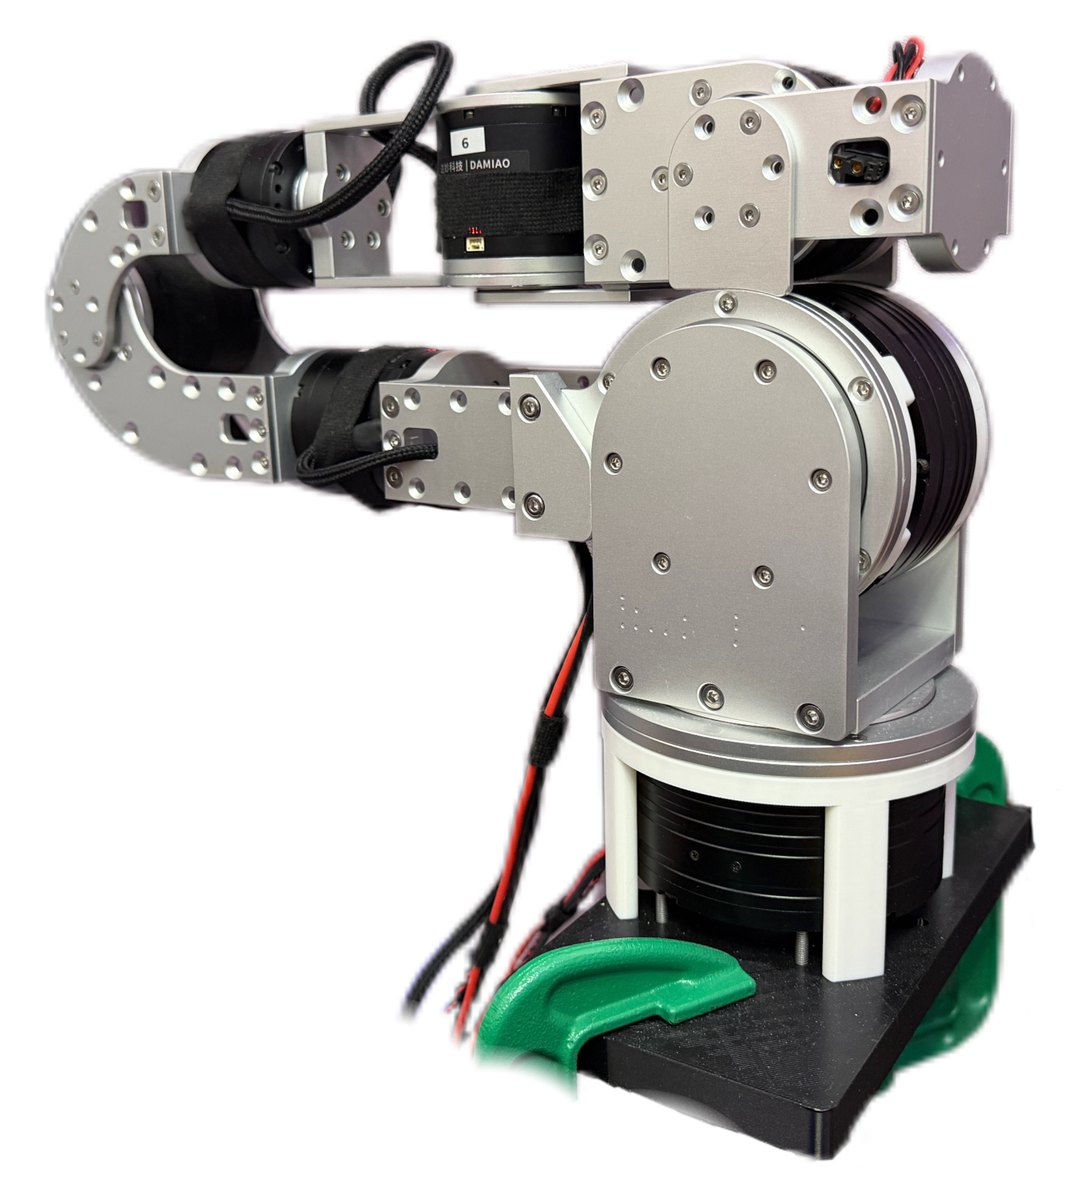
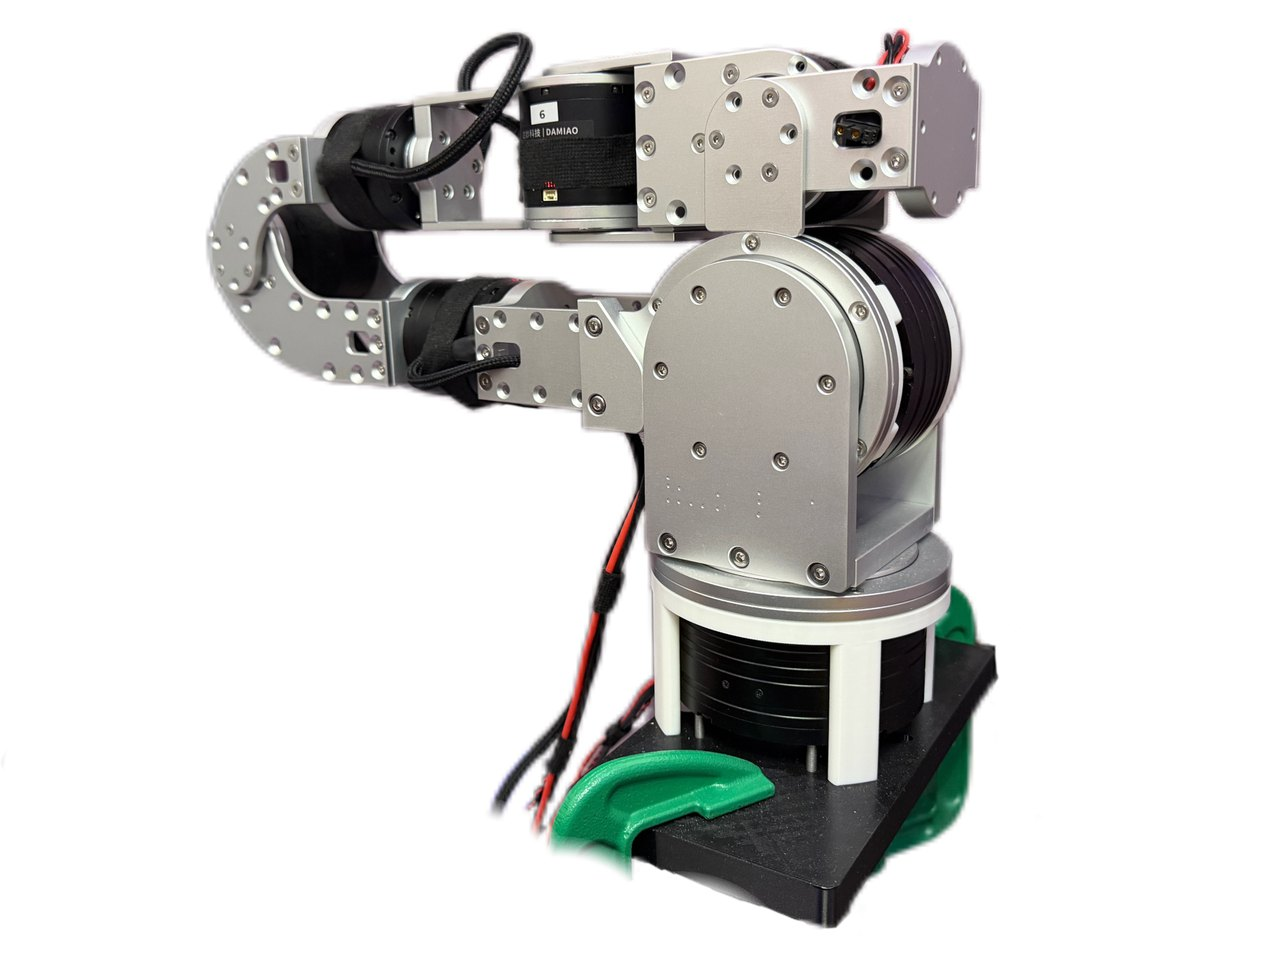
docs(project): keep the photo's 4:3 frame and clarify the architecture diagram
Scale the arm photo from the original 4:3 frame instead of cropping it narrow, and show the photo and the gravity compensation preview at the same height in both READMEs. Redraw the architecture diagram with bidirectional links between PC, controller and joint motors, naming what travels each way.

diff --git a/README.md b/README.md
@@ -7,8 +7,8 @@ English · [简体中文](README.zh-CN.md)
 [**Documentation**](https://yaolindong.github.io/infrabot/) · [Demo videos](https://yaolindong.github.io/infrabot/docs/demos) · [Quick start](#start-here) · [Repositories](#repositories) · [Compatibility](VERSIONS.md) · [Safety](SAFETY.md)
 
 <p align="center">
-  <img src="website/static/img/h7c-photo.jpg" width="360" alt="The InfraBot H7C seven-axis arm">
-  <img src="website/static/img/gravity-compensation.webp" width="420" alt="Guiding the arm by hand in gravity compensation">
+  <img src="website/static/img/h7c-photo.jpg" height="250" alt="The InfraBot H7C seven-axis arm">
+  <img src="website/static/img/gravity-compensation.webp" height="250" alt="Guiding the arm by hand in gravity compensation">
 </p>
 <p align="center"><sub>Gravity compensation on the controller, guided by hand. More clips: <a href="website/static/video/gravity-compensation.mp4">gravity compensation</a> · <a href="website/static/video/joint-impedance.mp4">joint impedance</a> · <a href="website/static/video/cartesian-impedance.mp4">Cartesian impedance</a> · <a href="website/static/video/joint-admittance.mp4">joint admittance</a> · <a href="website/static/video/cartesian-admittance.mp4">Cartesian admittance</a></sub></p>
 
@@ -61,13 +61,16 @@ English · [简体中文](README.zh-CN.md)
 ## How it fits together
 
 ```text
-PC ── C++ / Python SDK, Qt GUI ── Ethernet UDP ──┐
-                                                  ▼
-          STM32H743 controller on the carrier board, with a touch panel
+PC: C++ / Python SDK, Qt GUI
+ ▲
+ │  Ethernet UDP: commands down, telemetry and replies up
+ ▼
+Controller: STM32H743 on the carrier board, with a touch panel
             1 kHz joint loop · kinematics · gravity · impedance · admittance
-                                                  │ CAN FD
-                                                  ▼
-          J1–J2 DM8009P · J3–J4 DM4340P · J5–J7 DM4310 · J8 gripper
+ ▲
+ │  CAN FD: drive commands down, motor feedback up
+ ▼
+Joint motors: J1–J2 DM8009P · J3–J4 DM4340P · J5–J7 DM4310 · J8 gripper
 ```
 
 The controller is the single owner of the drives. One PC holds the control lease at a time. The touchscreen can STOP the arm at any time. The wire protocol is versioned: the SDK checks the controller's protocol major version before it starts sending commands. See [VERSIONS.md](VERSIONS.md) for which releases work together.

diff --git a/README.zh-CN.md b/README.zh-CN.md
@@ -7,8 +7,8 @@
 [**文档**](https://yaolindong.github.io/infrabot/zh-Hans/) · [演示视频](https://yaolindong.github.io/infrabot/zh-Hans/docs/demos) · [从这里开始](#从这里开始) · [仓库列表](#仓库列表) · [版本兼容](VERSIONS.md) · [安全说明](SAFETY.md)
 
 <p align="center">
-  <img src="website/static/img/h7c-photo.jpg" width="360" alt="InfraBot H7C 七轴机械臂实物">
-  <img src="website/static/img/gravity-compensation.webp" width="420" alt="重力补偿模式下用手拖动机械臂">
+  <img src="website/static/img/h7c-photo.jpg" height="250" alt="InfraBot H7C 七轴机械臂实物">
+  <img src="website/static/img/gravity-compensation.webp" height="250" alt="重力补偿模式下用手拖动机械臂">
 </p>
 <p align="center"><sub>控制器上的重力补偿，用手拖动。更多视频：<a href="website/static/video/gravity-compensation.mp4">重力补偿</a> · <a href="website/static/video/joint-impedance.mp4">关节阻抗</a> · <a href="website/static/video/cartesian-impedance.mp4">笛卡尔阻抗</a> · <a href="website/static/video/joint-admittance.mp4">关节导纳</a> · <a href="website/static/video/cartesian-admittance.mp4">笛卡尔导纳</a></sub></p>
 
@@ -61,13 +61,16 @@
 ## 整体结构
 
 ```text
-PC ── C++ / Python SDK、Qt 界面 ── 以太网 UDP ──┐
-                                                 ▼
-          底板上的 STM32H743 控制器，带触摸屏
-            1 kHz 关节控制环 · 运动学 · 重力补偿 · 阻抗 · 导纳
-                                                 │ CAN FD
-                                                 ▼
-          J1–J2 DM8009P · J3–J4 DM4340P · J5–J7 DM4310 · J8 夹爪
+PC：C++ / Python SDK、Qt 界面
+ ▲
+ │  以太网 UDP：指令向下，遥测和回复向上
+ ▼
+控制器：底板上的 STM32H743，带触摸屏
+        1 kHz 关节控制环 · 运动学 · 重力补偿 · 阻抗 · 导纳
+ ▲
+ │  CAN FD：驱动指令向下，电机反馈向上
+ ▼
+关节电机：J1–J2 DM8009P · J3–J4 DM4340P · J5–J7 DM4310 · J8 夹爪
 ```
 
 所有驱动器只由控制器直接控制。同一时间只有一台 PC 拥有控制权，触摸屏随时可以按 STOP。通信协议带版本号：SDK 连接时先核对控制器的协议主版本，一致后才开始发送指令。哪些版本可以一起使用，见 [VERSIONS.md](VERSIONS.md)。

diff --git a/website/i18n/zh-Hans/docusaurus-plugin-content-docs/current/hardware/architecture.md b/website/i18n/zh-Hans/docusaurus-plugin-content-docs/current/hardware/architecture.md
@@ -6,13 +6,16 @@ title: 系统结构
 # 系统结构
 
 ```text
-PC ── C++ / Python SDK、Qt 界面 ── 以太网 UDP ──┐
-                                                 ▼
-          底板上的 STM32H743 控制器，带触摸屏
-            1 kHz 关节控制环 · 运动学 · 重力补偿 · 阻抗 · 导纳
-                                                 │ CAN FD
-                                                 ▼
-          J1–J2 DM8009P · J3–J4 DM4340P · J5–J7 DM4310 · J8 夹爪
+PC：C++ / Python SDK、Qt 界面
+ ▲
+ │  以太网 UDP：指令向下，遥测和回复向上
+ ▼
+控制器：底板上的 STM32H743，带触摸屏
+        1 kHz 关节控制环 · 运动学 · 重力补偿 · 阻抗 · 导纳
+ ▲
+ │  CAN FD：驱动指令向下，电机反馈向上
+ ▼
+关节电机：J1–J2 DM8009P · J3–J4 DM4340P · J5–J7 DM4310 · J8 夹爪
 ```
 
 - **驱动器只由控制器直接控制。** 只有 STM32H743 和电机通信，PC 通过 UDP 发送目标或模式请求。

diff --git a/website/docs/hardware/architecture.md b/website/docs/hardware/architecture.md
@@ -6,13 +6,16 @@ title: System architecture
 # System architecture
 
 ```text
-PC ── C++ / Python SDK, Qt GUI ── Ethernet UDP ──┐
-                                                  ▼
-          STM32H743 controller on the carrier board, with a touch panel
+PC: C++ / Python SDK, Qt GUI
+ ▲
+ │  Ethernet UDP: commands down, telemetry and replies up
+ ▼
+Controller: STM32H743 on the carrier board, with a touch panel
             1 kHz joint loop · kinematics · gravity · impedance · admittance
-                                                  │ CAN FD
-                                                  ▼
-          J1–J2 DM8009P · J3–J4 DM4340P · J5–J7 DM4310 · J8 gripper
+ ▲
+ │  CAN FD: drive commands down, motor feedback up
+ ▼
+Joint motors: J1–J2 DM8009P · J3–J4 DM4340P · J5–J7 DM4310 · J8 gripper
 ```
 
 - **The controller owns the drives.** Only the STM32H743 talks to the motors. PCs send targets or mode requests over UDP.
